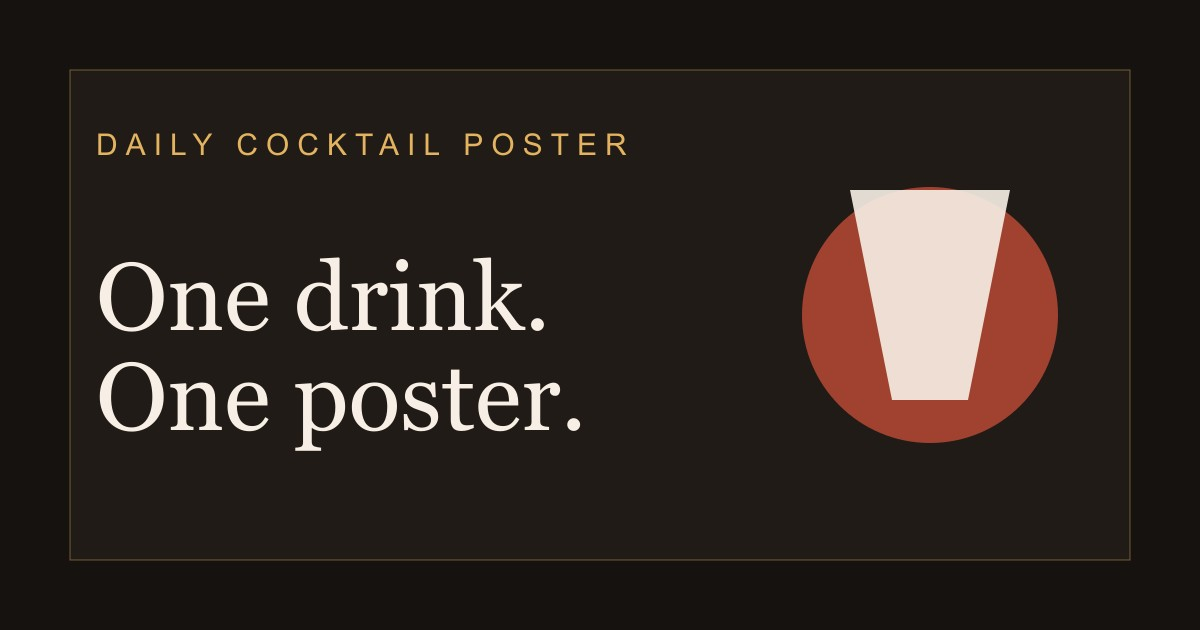
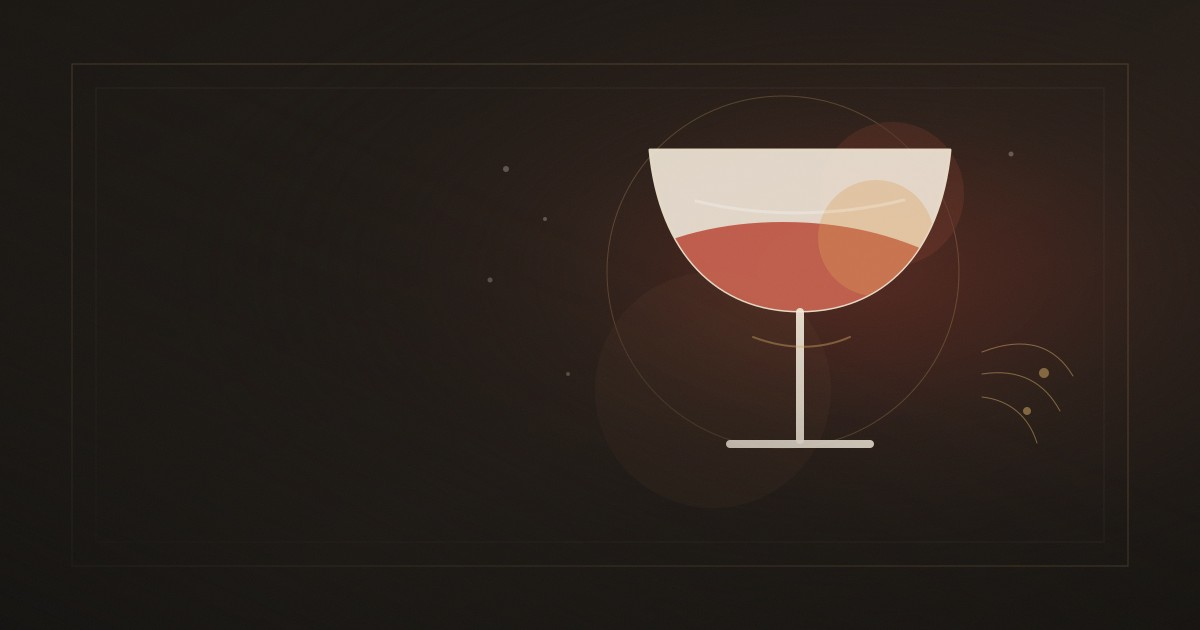
feat(brand): unify just one sip sharing

diff --git a/src/utils/structuredData.ts b/src/utils/structuredData.ts
@@ -1,7 +1,7 @@
 import type { Cocktail } from "@/data/cocktails";
 import type { Locale } from "@/i18n/config";
 import { t } from "@/i18n/ui";
-import { absoluteUrl, routeForLocale, site, socialImageMetadata } from "@/utils/seo";
+import { publicHomeUrl, site, socialImageMetadata } from "@/utils/seo";
 
 export type JsonLd = {
   [key: string]: JsonLdValue;
@@ -25,8 +25,8 @@ type CocktailStructuredDataConfig = {
 const organization = {
   "@type": "Organization",
   "@id": `${site}/#organization`,
-  name: "Daily Cocktail Poster",
-  url: `${site}/`,
+  name: "Just One Sip",
+  url: publicHomeUrl(),
 };
 
 const websiteReference = {
@@ -39,8 +39,8 @@ export function homeStructuredData({ locale, description }: PageStructuredDataCo
       "@context": "https://schema.org",
       "@type": "WebSite",
       "@id": websiteReference["@id"],
-      name: "Daily Cocktail Poster",
-      url: `${site}/`,
+      name: "Just One Sip",
+      url: publicHomeUrl(),
       description,
       inLanguage: locale,
       publisher: organization,
@@ -64,7 +64,7 @@ export function archiveStructuredData(config: PageStructuredDataConfig): JsonLd[
       publisher: organization,
     },
     breadcrumbStructuredData([
-      { name: t(locale, "home"), url: localizedHomeUrl(locale) },
+      { name: t(locale, "home"), url: publicHomeUrl() },
       { name: t(locale, "pastPicks"), url },
     ]),
   ];
@@ -95,14 +95,10 @@ export function cocktailStructuredData({ locale, cocktail, url }: CocktailStruct
       mainEntityOfPage: url,
     },
     breadcrumbStructuredData([
-      { name: t(locale, "home"), url: localizedHomeUrl(locale) },
+      { name: t(locale, "home"), url: publicHomeUrl() },
       { name: cocktail.name, url },
     ]),
   ];
-}
-
-function localizedHomeUrl(locale: Locale) {
-  return absoluteUrl(routeForLocale(locale, "/"));
 }
 
 function breadcrumbStructuredData(items: Array<{ name: string; url: string }>): JsonLd {

diff --git a/src/i18n/ui.ts b/src/i18n/ui.ts
@@ -2,10 +2,10 @@ import type { Locale } from "./config";
 
 export const ui = {
   en: {
-    siteName: "Daily Cocktail Poster",
-    brandShort: "DCP",
+    siteName: "Just One Sip",
+    brandShort: "JOS",
     siteDescription:
-      "A daily cocktail visual ritual with poster-style artwork, recipes, and concise mixing notes.",
+      "A daily cocktail poster site: one drink, one visual, every day.",
     todaysCocktail: "Today's Cocktail",
     archive: "Past Picks",
     pastPicks: "Past Picks",
@@ -39,10 +39,10 @@ export const ui = {
     noPastPicks: "No past picks yet.",
   },
   "zh-CN": {
-    siteName: "每日鸡尾酒海报",
-    brandShort: "DCP",
+    siteName: "Just One Sip",
+    brandShort: "JOS",
     siteDescription:
-      "每天一张海报感鸡尾酒视觉图，附配方、调制步骤和简短介绍。",
+      "每天一杯，一张视觉海报，一份简洁鸡尾酒指南。",
     todaysCocktail: "今日鸡尾酒",
     archive: "往期推荐",
     pastPicks: "往期推荐",

diff --git a/src/utils/seo.ts b/src/utils/seo.ts
@@ -16,6 +16,14 @@ export function absoluteUrl(path: string) {
   return new URL(path, site).toString();
 }
 
+export function publicHomeUrl() {
+  return site;
+}
+
+export function shareUrlForLocalePath(locale: Locale, path: string) {
+  if (path === "/") return publicHomeUrl();
+  return absoluteUrl(routeForLocale(locale, path));
+}
 
 export function socialImageUrl(image = defaultSocialImage) {
   return socialImageMetadata(image).url;

diff --git a/README.md b/README.md
@@ -1,6 +1,6 @@
-# Daily Cocktail Poster
+# Just One Sip
 
-Daily Cocktail Poster is a static Astro MVP for a bilingual daily cocktail visual experience.
+Just One Sip is a static Astro MVP for a bilingual daily cocktail poster experience.
 
 Live site: https://justonesip.today/
 
@@ -186,7 +186,7 @@ The share flow is implemented in `ImmersiveCocktail.astro`.
 
 The immersive action tray currently supports:
 
-- X: opens a post intent with the current page URL, prepared English post copy, and hashtags. The post text is copied first so users can paste it if an installed X PWA opens an empty composer.
+- X: opens a post intent with prepared English post copy, the canonical share URL, and three compact hashtags. The post text is copied first so users can paste it if an installed X PWA opens an empty composer.
 - Reddit: opens Reddit submit with the current page URL and an English title.
 
 ## SEO
